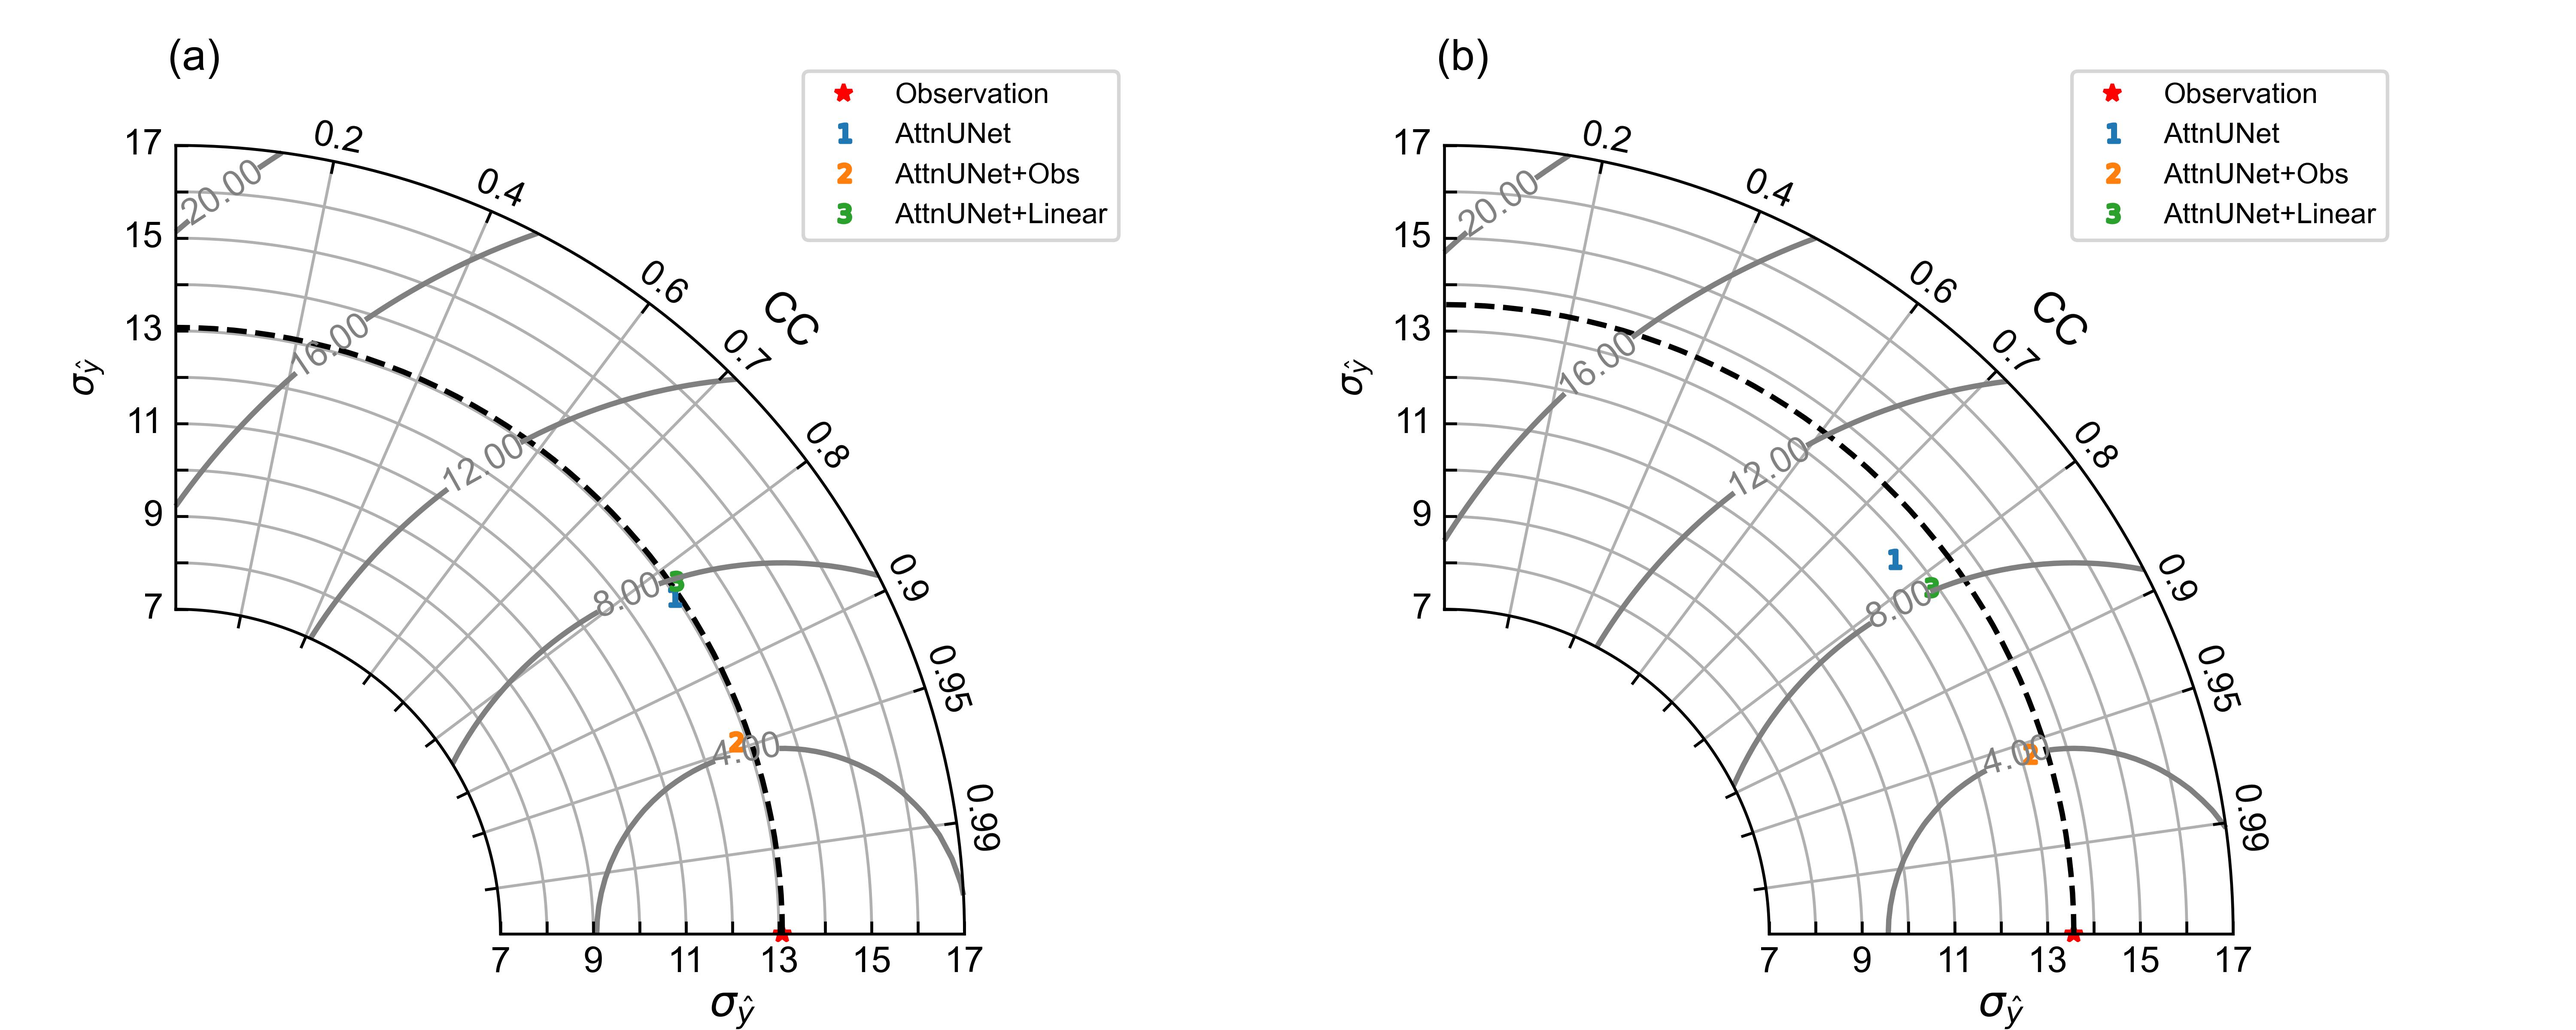
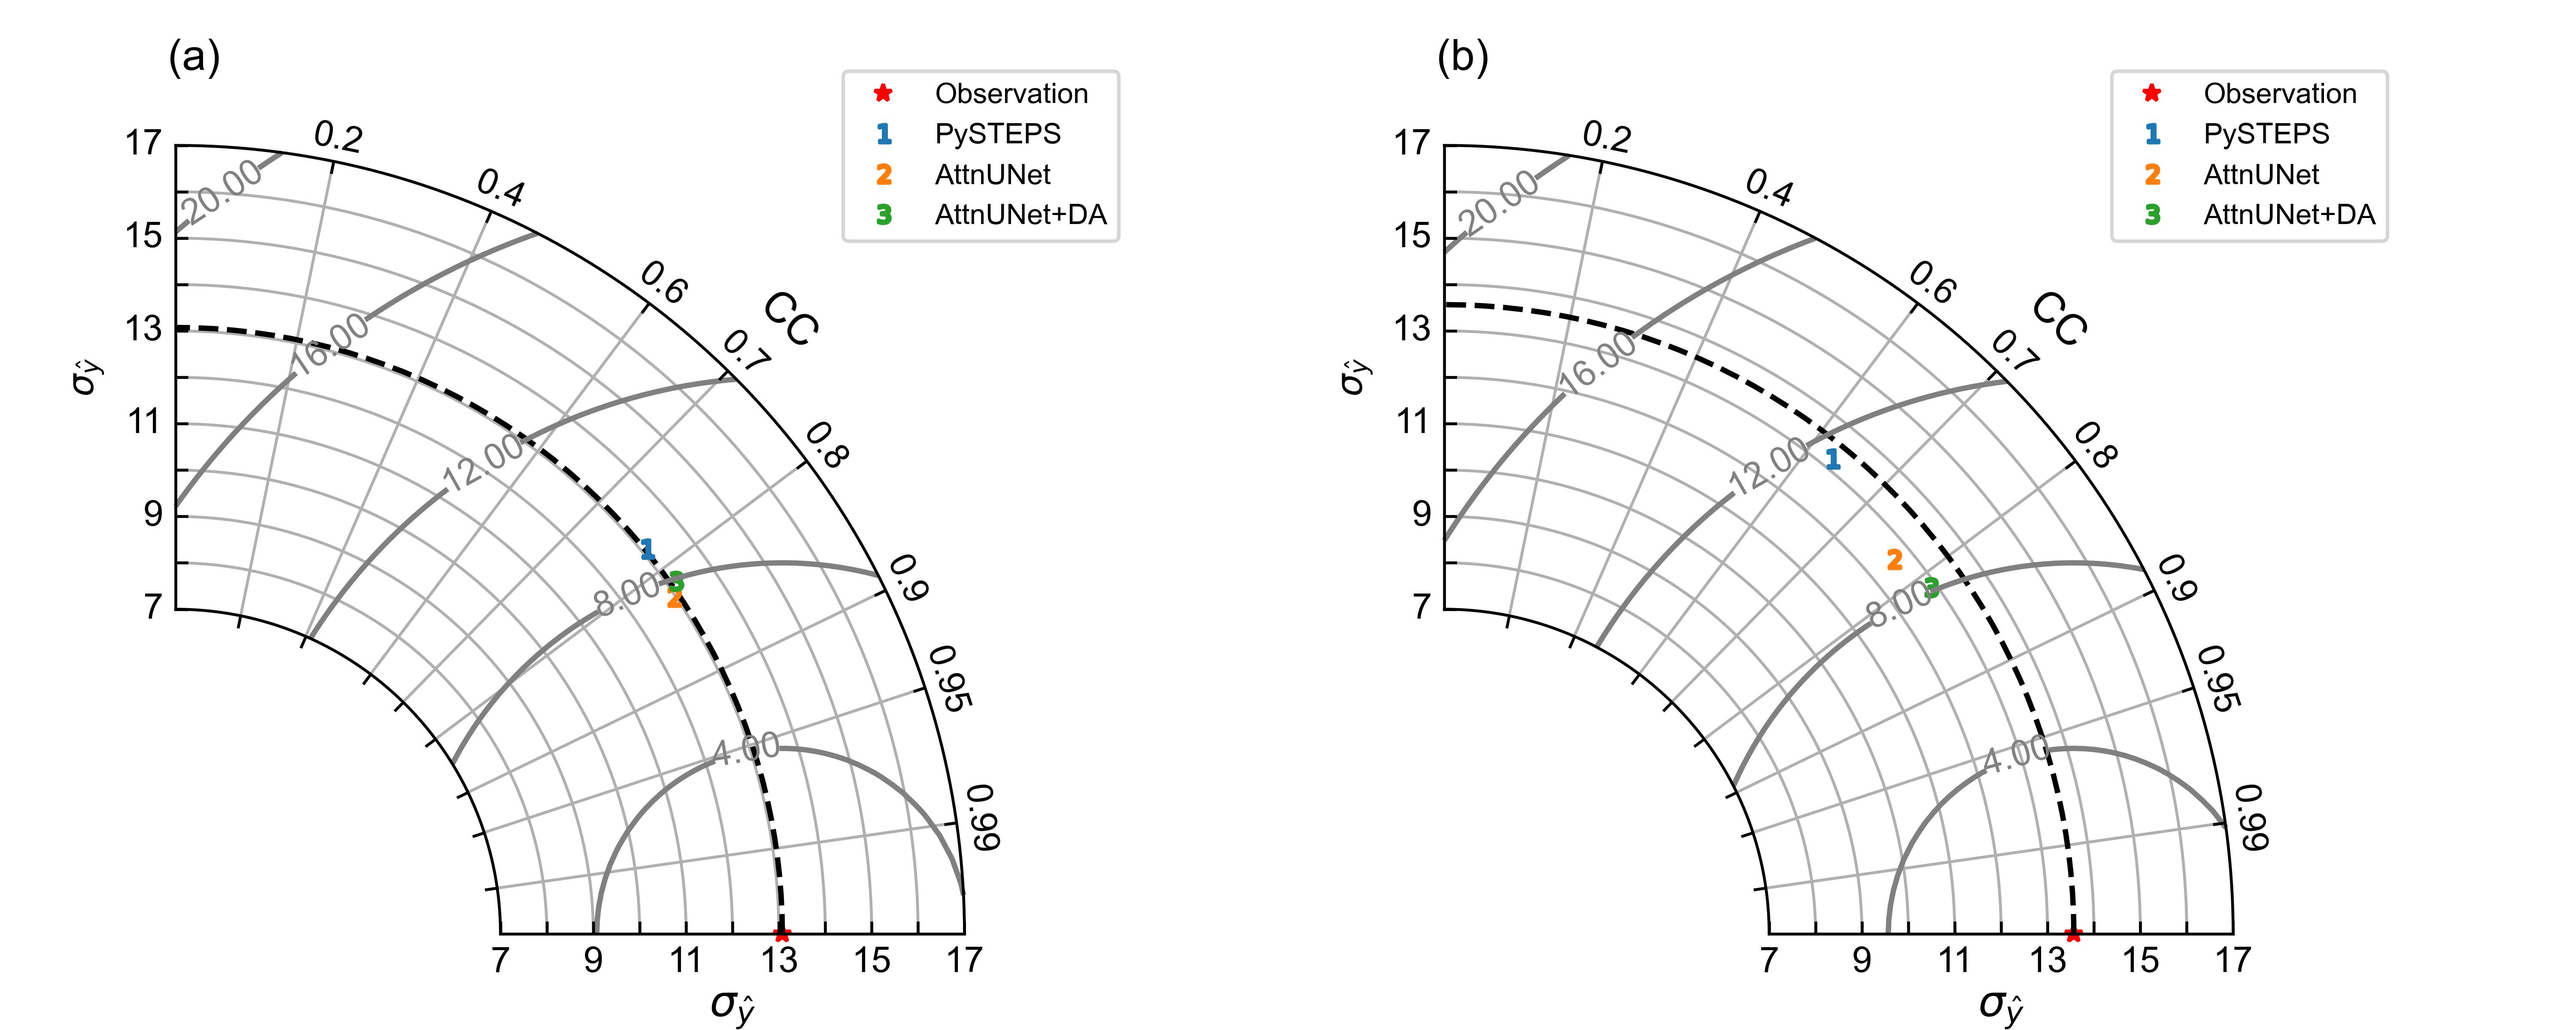
Update ENKF

Changed region(s): [[0.3117, 0.0625, 0.4363, 0.25], [0.8103, 0.0625, 0.935, 0.2188], [0.7168, 0.5312, 0.748, 0.5625]]

diff --git a/localutils/postprocessing.py b/localutils/postprocessing.py
@@ -3,7 +3,7 @@ import torch
 import numpy as np
 import pandas as pd
 
-from statsmodels.tsa.vector_ar.var_model import VAR
+# from statsmodels.tsa.vector_ar.var_model import VAR
 
 import utils.evaluation as evaluation
 import utils.visualizer as visualizer
@@ -36,7 +36,7 @@ class LinearCorrection:
 
 
 class KF:
-    def __init__(self, num_dims, M, x0=None):
+    def __init__(self, num_dims, M, input_, x0=None):
         self.num_dims = num_dims
         self.M = M
         self.H = torch.eye(num_dims)
@@ -49,6 +49,7 @@ class KF:
             self.x0 = x0
         self.x0.requires_grad = True
         self.P0 = torch.eye(num_dims, requires_grad=True)
+        self.input_ = input_
 
     def forward(self, num_steps, ys):
         X = torch.zeros(num_steps, self.num_dims)
@@ -56,7 +57,7 @@ class KF:
         x_for, P_for = self.x0, self.P0
         for i in range(num_steps):
             x_ana, P_ana = self.analysis(x_for, P_for, ys[i])
-            x_for, P_for = self.forecast(x_ana, P_ana)
+            x_for, P_for = self.forecast(x_ana, P_ana, i)
             X[i], P[i] = x_for, P_for
         return X, P
 
@@ -66,8 +67,16 @@ class KF:
         P_ana = (torch.eye(self.num_dims) - K @ self.H) @ P_for
         return x_ana, P_ana
 
-    def forecast(self, x_ana, P_ana):
-        x_for = self.M(x_ana)
+    def forecast(self, x_ana, P_ana, step):
+        num_steps = self.X.size(0)
+        width, height = self.input_.size(3), self.input_.size(4)
+        if step == 0:
+            x_in = torch.cat([self.input_[step + 1:], x_ana.view(1, 1, 1, width, height)])
+        elif step > 0 and step < num_steps - 1:
+            x_in = torch.cat([self.input_[step + 1:], self.X[:step].view(-1, 1, 1, width, height), x_ana.view(1, 1, 1, width, height)])
+        else:
+            x_in = torch.cat([self.X[:step].view(-1, 1, 1, width, height), x_ana.view(1, 1, 1, width, height)])
+        x_for = self.M(x_in)[0].flatten()
         # Calculate the jacobian matrix
         M_jacob = torch.zeros(self.num_dims, self.num_dims)
         for n in range(self.num_dims):
@@ -81,31 +90,32 @@ class KF:
 
 
 class EnKF:
-    def __init__(self, num_dims, num_ensemble, M, x0=None):
+    def __init__(self, num_dims, num_ensemble, M, input_, X0=None):
         self.num_dims = num_dims
         self.M = M
         self.H = torch.eye(num_dims)
-        self.R = torch.eye(num_dims)
-        if x0 is None:
-            self.x0 = torch.zeros(num_ensemble, num_dims)
+        self.R = torch.eye(num_dims) * 0.5
+        if X0 is None:
+            self.X0 = torch.zeros(num_ensemble, num_dims)
         else:
-            assert num_dims == x0.size(1)
-            assert num_ensemble == x0.size(0)
-            self.x0 = x0
-        self.x0.requires_grad = True
-        self.P0 = torch.eye(num_dims, requires_grad=True)
+            assert num_dims == X0.size(1)
+            assert num_ensemble == X0.size(0)
+            self.X0 = X0
+        self.P0 = torch.eye(num_dims)
         self.num_ensemble = num_ensemble
+        self.input_ = input_
     
     def forward(self, num_steps, ys):
-        X = torch.zeros(num_steps, self.num_ensemble, self.num_dims)
-        P = torch.zeros(num_steps, self.num_dims, self.num_dims)
-        X_for, P_for = self.x0, self.P0
+        self.X = torch.zeros(num_steps, self.num_ensemble, self.num_dims)
+        self.P = torch.zeros(num_steps, self.num_dims, self.num_dims)
+        X_for, P_for = self.X0, self.P0
         for i in range(num_steps):
+            print('Step {}/{}'.format(i + 1, num_steps))
             Y, Ru = self.perturb(ys[i])
-            X_ana, P_ana = self.analysis(X_for, P_for, Y, Ru)
-            X_for, P_for = self.forecast(X_ana, P_ana)
-            X[i], P[i] = X_for, P_for
-        return X, P
+            X_ana, _ = self.analysis(X_for, P_for, Y, Ru)
+            X_for, P_for = self.forecast(X_ana, i)
+            self.X[i], self.P[i] = X_for, P_for
+        return self.X, self.P
 
     def perturb(self, y):
         mu = np.zeros(self.num_dims)
@@ -119,14 +129,26 @@ class EnKF:
 
     def analysis(self, X_for, P_for, Y, Ru):
         Ku = P_for @ self.H @ np.linalg.inv(self.H @ P_for @ self.H.T + Ru)
-        X_ana = torch.stack([X_for[m] + Ku @ (Y[m] - self.H @ X_for[m]) for m in range(self.num_ensemble)])
+        X_ana = torch.zeros_like(X_for)
+        for m in range(self.num_ensemble):
+            X_ana[m] = X_for[m] + Ku @ (Y[m] - self.H @ X_for[m])
         x_ana_bar = torch.mean(X_ana, dim=0)
         X_ana_anomly = X_ana - x_ana_bar.unsqueeze(0)
         P_ana = (X_ana_anomly.T @ X_ana_anomly) / (self.num_ensemble - 1)
         return X_ana, P_ana
 
-    def forecast(self, X_ana, P_ana):
-        X_for = torch.stack([self.M(X_ana[m]) for m in range(self.num_ensemble)])
+    def forecast(self, X_ana, step):
+        num_steps = self.X.size(0)
+        width, height = self.input_.size(3), self.input_.size(4)
+        X_for = torch.zeros_like(X_ana)
+        for m in range(self.num_ensemble):
+            if step == 0:
+                X_in = torch.cat([self.input_[step + 1:], X_ana[m].view(1, 1, 1, width, height)])
+            elif step > 0 and step < num_steps - 1:
+                X_in = torch.cat([self.input_[step + 1:], self.X[:step, m].view(-1, 1, 1, width, height), X_ana[m].view(1, 1, 1, width, height)])
+            else:
+                X_in = torch.cat([self.X[:step, m].view(-1, 1, 1, width, height), X_ana[m].view(1, 1, 1, width, height)])
+            X_for[m] = self.M(X_in)[0].flatten()
         x_for_bar = torch.mean(X_for, dim=0)
         X_for_anomly = X_for - x_for_bar.unsqueeze(0)
         P_for = (X_for_anomly.T @ X_for_anomly) / (self.num_ensemble - 1)
@@ -225,14 +247,13 @@ class Assimilation:
         df = pd.DataFrame(data=metrics)
         df.to_csv(os.path.join(self.args.output_path, 'linear_metrics.csv'), float_format='%.8f', index=False)
         visualizer.plot_map(input_rev, pred_rev, truth_rev, timestamp, self.args.output_path, 'linear')
-            
-
+    
     def enkf(self, sample_loader):
         metrics = {}
         metrics['Time'] = np.linspace(6, 60, 10)
         width = self.args.lon_range[1] - self.args.lon_range[0]
         height = self.args.lat_range[1] - self.args.lat_range[0]
-        pred_da = []
+
         for tensor, timestamp in sample_loader:
             tensor = tensor.transpose(1, 0)
             timestamp = timestamp.transpose(1, 0)
@@ -242,20 +263,17 @@ class Assimilation:
             truth = scaler.minmax_norm(truth, self.args.vmax, self.args.vmin)
             
             ys = torch.stack([truth[s].flatten() for s in range(self.args.forecast_steps)])
-            
-            da_model = EnKF(width * height * self.args.forecast_steps, 5, self.model, torch.flatten(input_))
+            X0 = torch.flatten(input_[-1]).expand(self.args.num_ensemble, -1)
+
+            da_model = EnKF(width * height, self.args.num_ensemble, self.model, input_, X0)
             pred, _ = da_model.forward(self.args.forecast_steps, ys)
-            pred = torch.mean(pred, dim=1).view(self.args.forecast_steps, self.args.forecast_steps, -1)
+            pred = torch.mean(pred, dim=1).view(self.args.forecast_steps, 1, 1, width, height)
 
             input_rev = scaler.reverse_minmax_norm(input_, self.args.vmax, self.args.vmin)
             pred_rev = scaler.reverse_minmax_norm(pred, self.args.vmax, self.args.vmin)
             truth_rev = scaler.reverse_minmax_norm(truth, self.args.vmax, self.args.vmin)
 
-            for s in range(self.args.forecast_steps):
-                pred_da.append(pred_rev[s, s].view(1, 1, width, height))
-        
-        pred_da = torch.stack(pred_da)
-        metrics = self.evaluate(pred_da, truth_rev, metrics)
+        metrics = self.evaluate(pred_rev, truth_rev, metrics)
         df = pd.DataFrame(data=metrics)
         df.to_csv(os.path.join(self.args.output_path, 'enkf_metrics.csv'), float_format='%.8f', index=False)
         visualizer.plot_map(input_rev, pred_rev, truth_rev, timestamp, self.args.output_path, 'enkf')

diff --git a/localutils/plot_talyor_diagram.py b/localutils/plot_talyor_diagram.py
@@ -65,18 +65,18 @@ def plot_taylor_diagram(root: str, paths: List, models: List, target_path: str, 
 
 if __name__ == '__main__':
     colors = cm.get_cmap('tab10')
+    # plot_taylor_diagram('results', 
+    #                     ['AttnUNet/sample', 'AttnUNet_CV/sample', 'AttnUNet_GAN/sample', 'AttnUNet_GAN_CV/sample'], 
+    #                     ['AttnUNet', 'AttnUNet+SVRE', 'AGAN', 'AGAN+SVRE'], 
+    #                     'localutils/taylor_ablation.jpg', std_range=[7, 17], std_num=6, 
+    #                     colors=colors.colors)
+    # plot_taylor_diagram('results',
+    #                     ['PySTEPS/sample', 'ConvLSTM/sample', 'SmaAt_UNet/sample', 'AttnUNet_GAN_CV/sample'], 
+    #                     ['PySTEPS', 'ConvLSTM-EF', 'SmaAt-UNet', 'AGAN+SVRE (ours)'],
+    #                     'localutils/taylor_comparison.jpg', std_range=[7, 17], std_num=6, 
+    #                     colors=colors.colors)
     plot_taylor_diagram('results', 
-                        ['AttnUNet/sample', 'AttnUNet_CV/sample', 'AttnUNet_GAN/sample', 'AttnUNet_GAN_CV/sample'], 
-                        ['AttnUNet', 'AttnUNet+SVRE', 'AGAN', 'AGAN+SVRE'], 
-                        'localutils/taylor_ablation.jpg', std_range=[7, 17], std_num=6, 
-                        colors=colors.colors)
-    plot_taylor_diagram('results',
-                        ['PySTEPS/sample', 'ConvLSTM/sample', 'SmaAt_UNet/sample', 'AttnUNet_GAN_CV/sample'], 
-                        ['PySTEPS', 'ConvLSTM-EF', 'SmaAt-UNet', 'AGAN+SVRE (ours)'],
-                        'localutils/taylor_comparison.jpg', std_range=[7, 17], std_num=6, 
-                        colors=colors.colors)
-    plot_taylor_diagram('results/Assimilation', 
-                        ['nonobs', 'obs', 'linear'], 
-                        ['AttnUNet', 'AttnUNet+Obs', 'AttnUNet+Linear'],
+                        ['PySTEPS/sample', 'Assimilation/nonobs', 'Assimilation/linear'], 
+                        ['PySTEPS', 'AttnUNet', 'AttnUNet+DA'],
                         'localutils/taylor_assimilation.jpg', std_range=[7, 17], std_num=6, 
                         colors=colors.colors)
